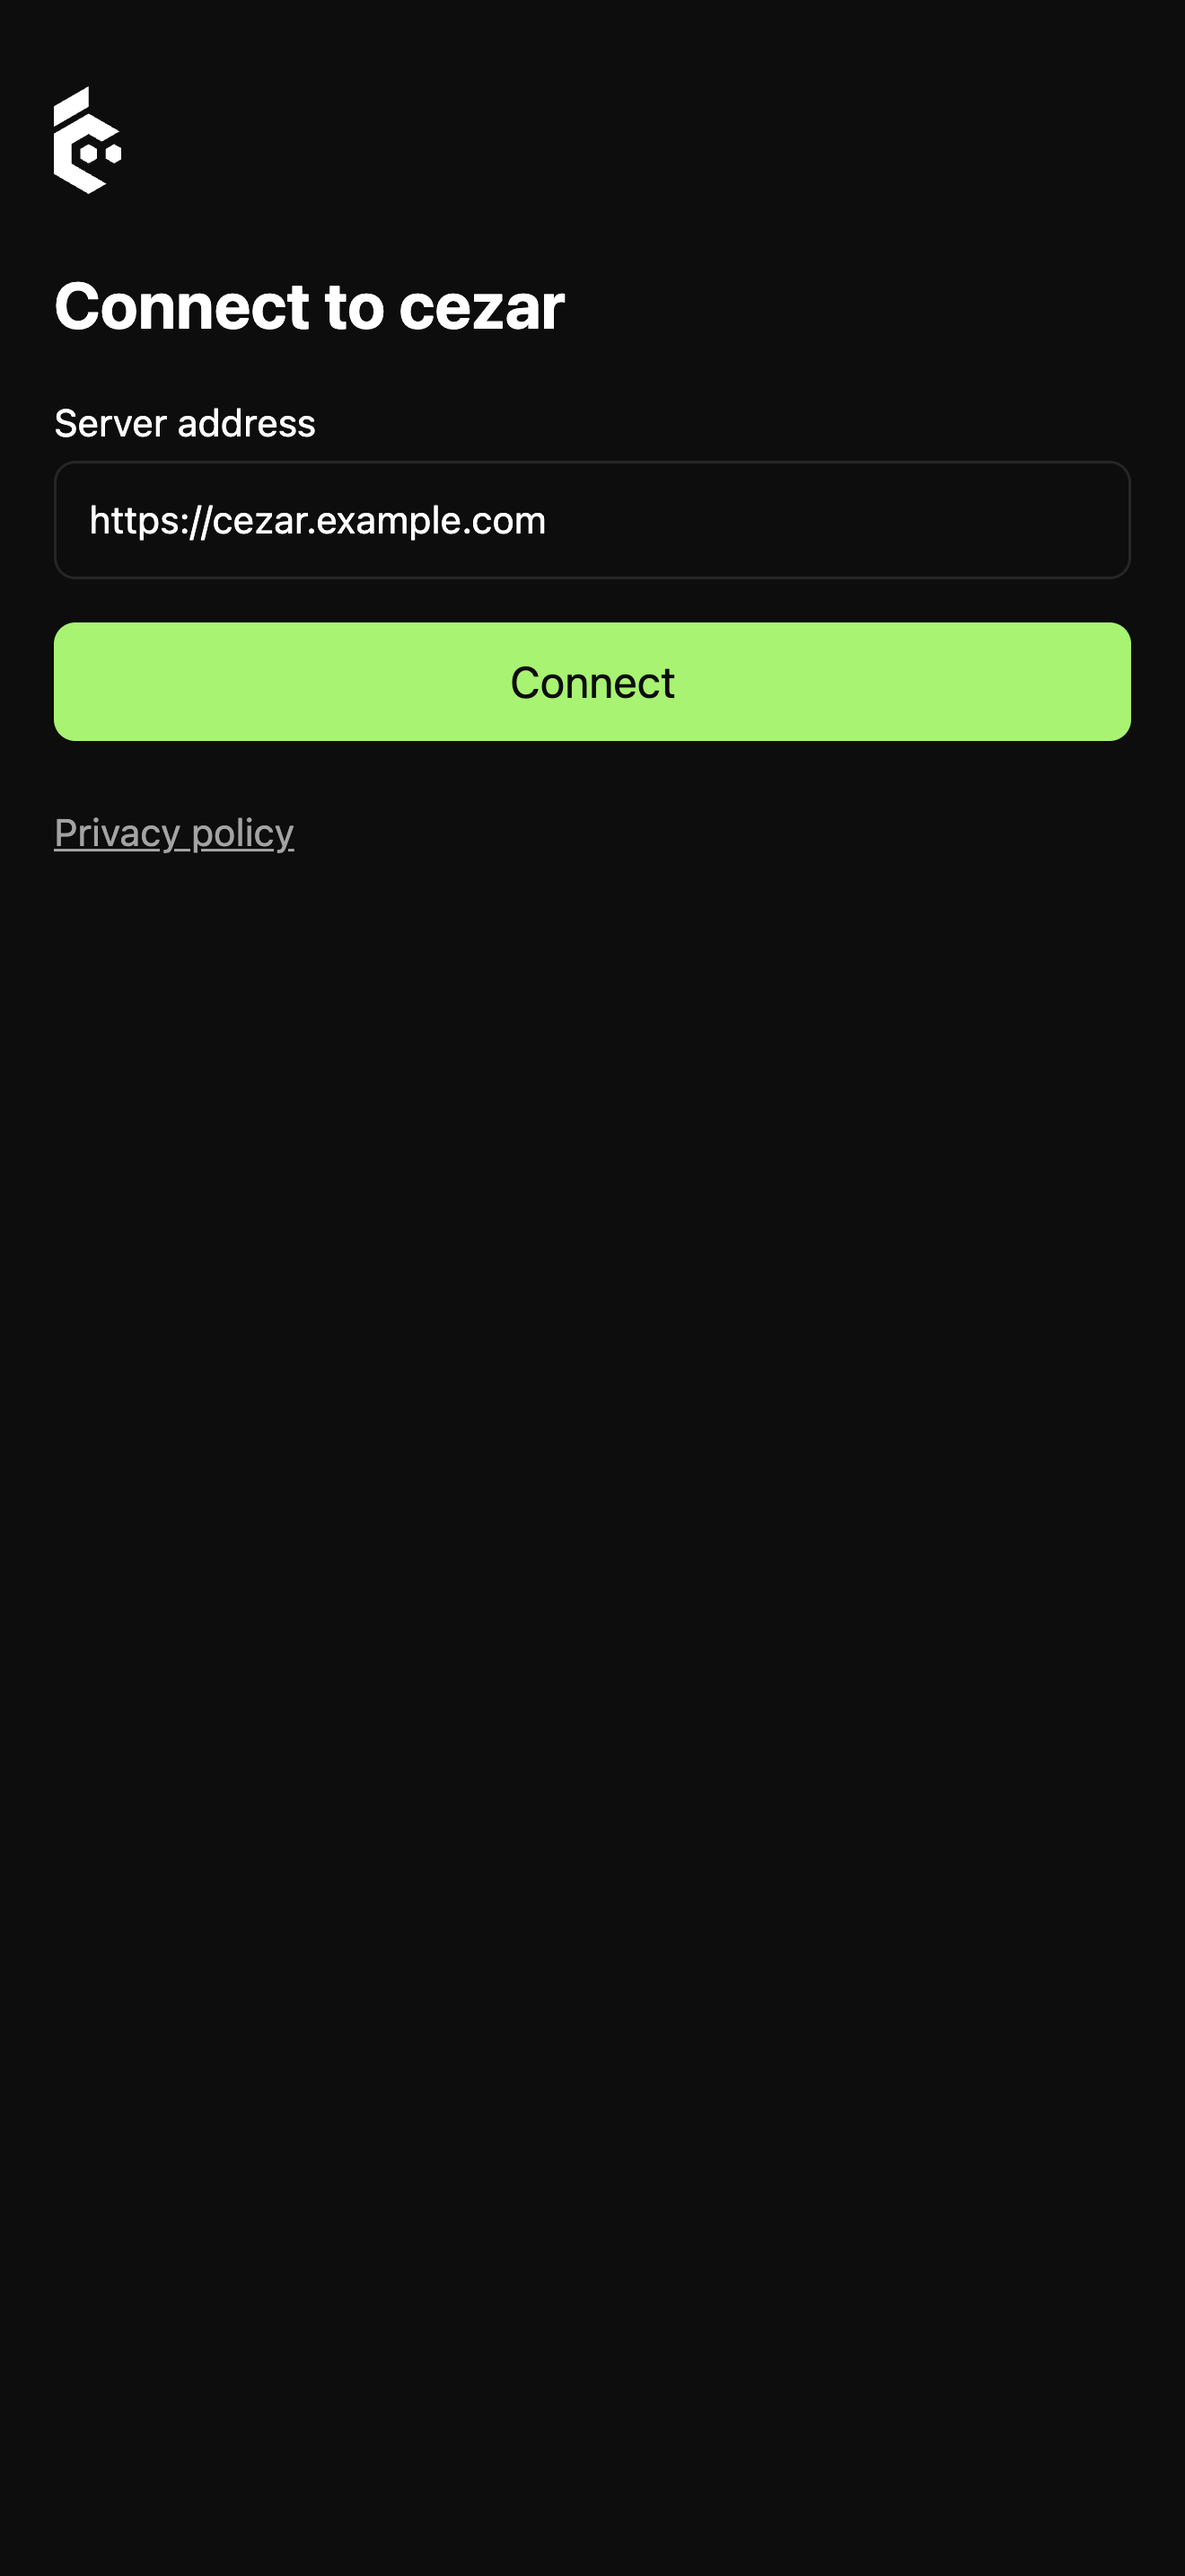
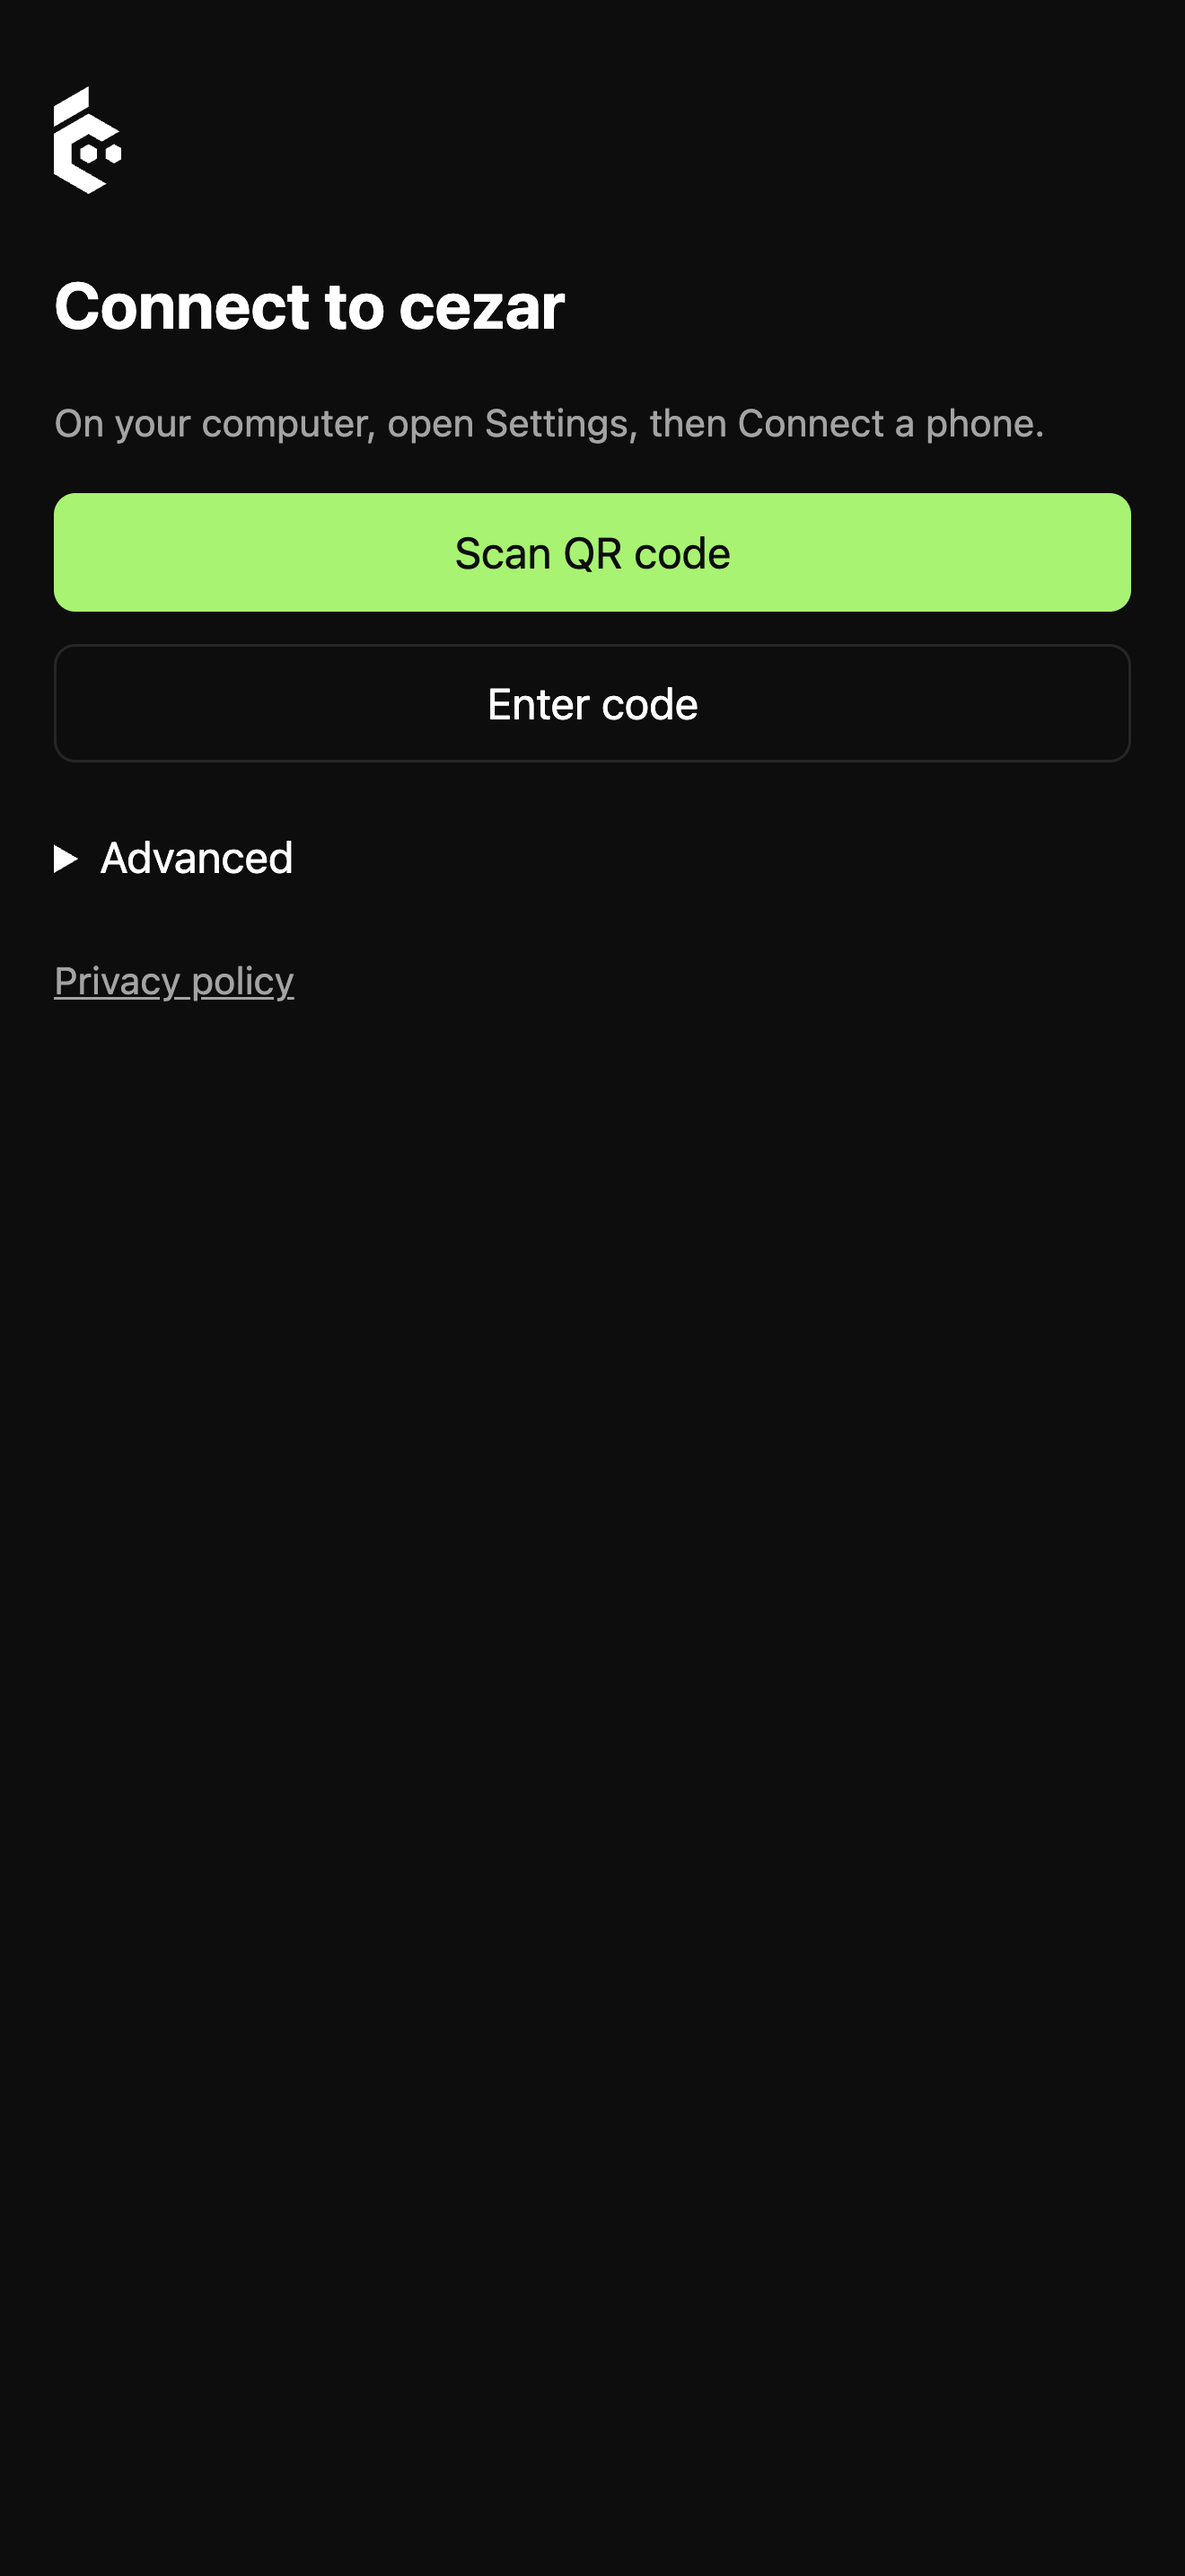
feat(mobile): iOS push entitlement, privacy manifest Device ID, iOS pairing in store assets

Changed region(s): [[0.0311, 0.1552, 0.9629, 0.3414], [0.0311, 0.3724, 0.2485, 0.4034]]

diff --git a/packages/mobile/connect/connect.js b/packages/mobile/connect/connect.js
@@ -10,7 +10,7 @@ let context = {};
 let cameFrom = null;
 // What Back does on the screen drawn now: the arrow, Android's Back and iOS's edge swipe all call it.
 let back = null;
-// Android only for now. iOS keeps the URL form until its client compiles.
+// Native reports it: true once the app has a relay client.
 let pairing = false;
 let lock = null;
 let relayDefault;

diff --git a/packages/mobile/README.md b/packages/mobile/README.md
@@ -144,7 +144,7 @@ is requested, while the switch and Stage 1 work as above. For Stage 2, a maintai
 3. Downloads its `google-services.json` into `packages/mobile/android/app/`. It is not a secret, but
    it is gitignored: do not commit it until Open Mercato owns the Firebase project. The build applies
    the google-services plugin only when the file exists.
-4. Gives the relay (`patzick/rome`) a service account key from the **same** Firebase project:
+4. Gives the relay (`open-mercato/rome`) a service account key from the **same** Firebase project:
    Project settings → Service accounts → Generate new private key, then
    `npx wrangler secret put FCM_SERVICE_ACCOUNT_JSON < key.json`. The relay also needs
    `GRANT_SEAL_KEY`, which seals the grants. Delete the downloaded key file afterwards.
@@ -174,10 +174,10 @@ Where it differs from Android:
 - **URLSession always offers `permessage-deflate`.** It cannot be removed, so the header is sent
   empty and a `101` naming any extension is refused (§ 3). It cannot read a refused upgrade's body, so a
   `503` falls back to `Retry-After` or jitter.
-- **Push** is APNs. Without the Push Notifications capability registration fails and push stays
-  off: Stage 1 still works. To turn Stage 2 on, add the capability in Xcode (it writes
-  `aps-environment` to an entitlements file), and give the relay an APNs key for the bundle ID
-  `com.openmercato.cezar.mobile`. The relay's payload carries `s` at the top level, beside `aps`.
+- **Push** is APNs. `App/App.entitlements` asks for `aps-environment`, so the App ID needs the Push
+  Notifications capability; if registration still fails, push stays off and Stage 1 still works. Stage 2
+  needs an APNs key at the relay for the bundle ID `com.openmercato.cezar.mobile`. The app reads `s`
+  at the top level of the payload, beside `aps`, so the relay must send it there.
 - No debug pairing route yet: pair with the camera, or type the code.
 
 ## Icons and splash

diff --git a/packages/mobile/store/screenshots/README.md b/packages/mobile/store/screenshots/README.md
@@ -11,9 +11,9 @@ node packages/mobile/store/scripts/screenshots.mjs --only graphics,connect --con
 ```
 
 The connect scenes need the relay pairing screens, so run them from the top of the mobile stack, or
-pass `--connect` a `packages/mobile/connect` directory that has them (`--ios-pairing` also shows them
-on iOS, once the iOS app can pair). The cockpit scenes boot this repo's cezar with `CEZ_DRY_RUN=1` in
-a throwaway `HOME` and `CEZ_HOME`, seed a demo shop project and a manager, and stop it afterwards.
+pass `--connect` a `packages/mobile/connect` directory that has them; both platforms show pairing. The
+cockpit scenes boot this repo's cezar with `CEZ_DRY_RUN=1` in a throwaway `HOME` and `CEZ_HOME`, seed a
+demo shop project and a manager, and stop it afterwards.
 
 | Set | Pixels | Store slot |
 | --- | --- | --- |
@@ -30,7 +30,7 @@ a throwaway `HOME` and `CEZ_HOME`, seed a demo shop project and a manager, and s
 | `02-task-live` | A running task's live chat |
 | `03-manager` | The Manager answering "what needs me" |
 | `04-connect` | The connect screen |
-| `05-pair-code` (Android) / `05-sign-in` (iOS) | Typing a pairing code / signing in to a direct server |
-| `06-servers` | The Devices list with notifications and the app lock |
+| `05-pair-code` | Typing a pairing code |
+| `06-servers` | The server list with notifications and the app lock |
 
-The Android `06-servers` shows the default relay address, `rome.cezar.run`; retake it if that changes.
+`06-servers` shows the default relay address, `rome.cezar.run`; retake it if that changes.

diff --git a/packages/mobile/store/data-safety.md b/packages/mobile/store/data-safety.md
@@ -67,10 +67,11 @@ used to track across apps or websites, and the app never shows the App Tracking 
 
 Before the first iOS submission:
 
-- These answers describe Android. iOS has no relay client or push until the iOS half of #1901
-  lands; re-read its code and redo this table for the build you submit.
+- On iOS the Device ID row is the relay device ID, public keys and the APNs token; there is no
+  Firebase. Re-read the iOS code against this table for the build you submit.
 - Apple's privacy manifest is `ios/App/App/PrivacyInfo.xcprivacy`: no tracking, no tracking domains,
-  and `UserDefaults` for the app's own flags (reason `CA92.1`). Its collected data types must match the
+  Device ID collected for app functionality, not linked and not tracking, and `UserDefaults` for the
+  app's own flags (reason `CA92.1`). Its collected data types must match the
   table above; re-read it, and the manifest of any SDK the build adds, before each submission.
 - **Export compliance** (asked for every build, or set `ITSAppUsesNonExemptEncryption` in
   `Info.plist`): the app implements end-to-end encryption with standard algorithms (Noise with

diff --git a/RELEASING-MOBILE.md b/RELEASING-MOBILE.md
@@ -123,8 +123,8 @@ be updated by one. Say that wherever the APK is linked. Publish the draft GitHub
 ## 3. iOS, once
 
 1. **Identifier**: https://developer.apple.com/account/resources/identifiers > **+** > App IDs > App,
-   explicit bundle ID `com.openmercato.cezar.mobile`, description `cezar`. Tick **Push Notifications**
-   when iOS push lands.
+   explicit bundle ID `com.openmercato.cezar.mobile`, description `cezar`. Tick **Push Notifications**:
+   the app's `App.entitlements` asks for `aps-environment`, and signing fails without it.
 2. **App record**: App Store Connect > **Apps > + > New App**: iOS, name `CezarBot` (if taken, `CezarBot:
    coding agents`), primary language English (U.S.), the bundle ID above, SKU `cezar-mobile`, full
    access.

diff --git a/packages/mobile/store/listing.md b/packages/mobile/store/listing.md
@@ -90,5 +90,4 @@ First release: pair with cezar by QR code or typed code, connect directly to a h
 - Notifications while the app is closed need Firebase on Android (`GOOGLE_SERVICES_JSON`) and push on
   iOS. If a build ships without them, change "the phone tells you" to "the app tells you while it is
   open", or Apple's guideline 2.3.1 (accurate metadata) applies.
-- The iOS app has no relay client until #1901's iOS half lands. Do not submit this text for an iOS
-  build that cannot pair by QR code.
+- Both apps pair by QR code. Do not submit this text for a build that cannot.

diff --git a/packages/mobile/store/reviewer-notes.md b/packages/mobile/store/reviewer-notes.md
@@ -20,8 +20,7 @@ by `packages/mobile/demo/` (README there). Before pasting, replace `cezar-demo.e
 
 ## The notes text
 
-Delete the "Optional: pairing" part if the build has no relay client (iOS until #1901's iOS half
-lands) or the demo runs with `DEMO_RELAY=0`.
+Delete the "Optional: pairing" part if the demo runs with `DEMO_RELAY=0`.
 
 <!-- reviewer-notes -->
 ```text
